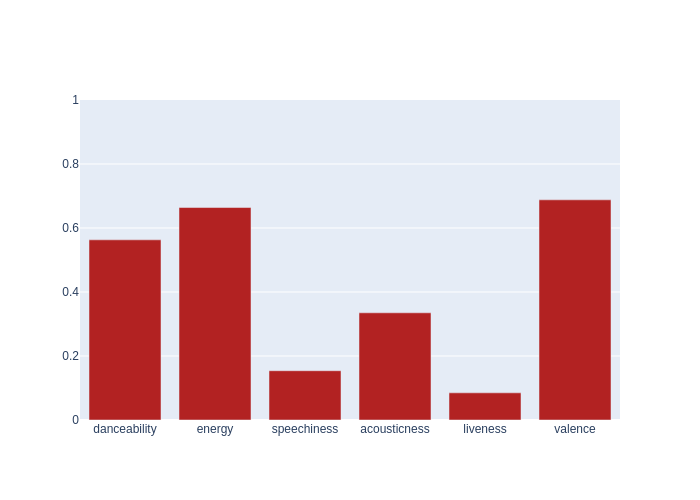
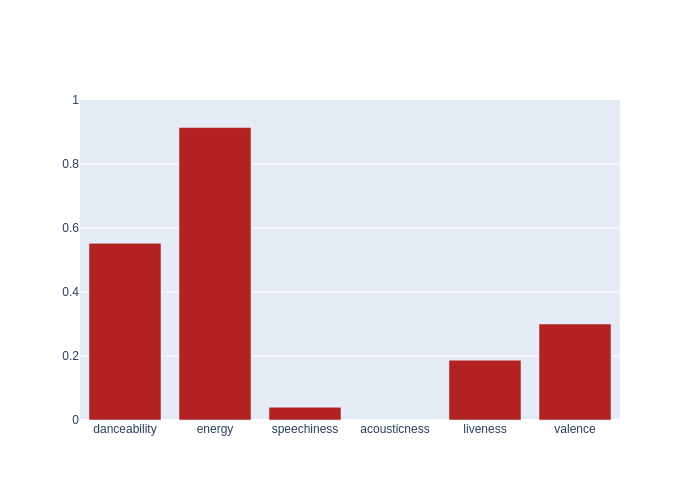
Automated README update

diff --git a/README.md b/README.md
@@ -4,7 +4,7 @@ Automated music metrics for fun, updated hourly.
 
 ## Spotify
 
-- currently listening to **Olivia Rodrigo - good 4 u**
+- currently listening to **Smallpools - Over & Over**
 
 - **3099** liked songs
 - **32** playlists
